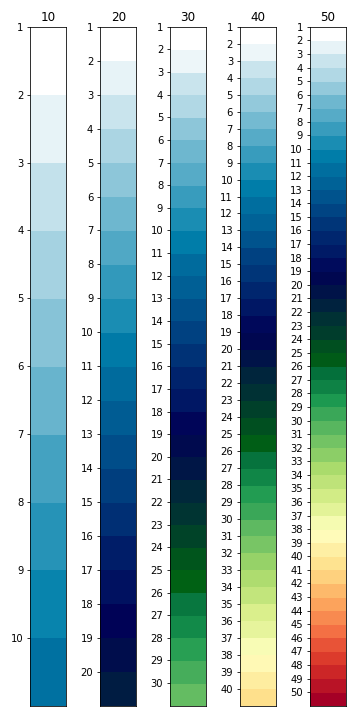
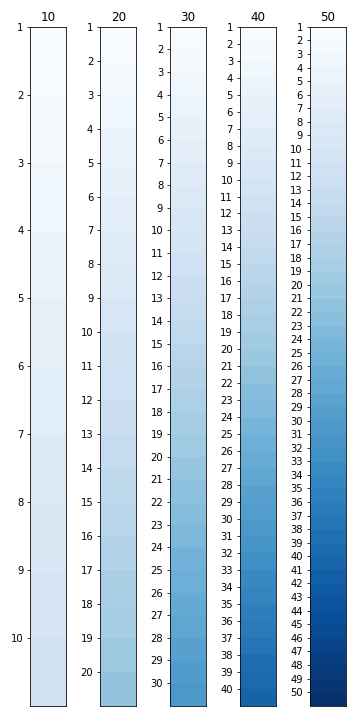
escala de cores frio-quente removida,  performance_comparison recebe apenas um array
- todos os gráficos agora seguem a escala de cores branco-azul
- o método performance_comparison recebe apenas um array e possui uma linha entre diferentes comparações

diff --git a/Desempenho_de_busca.py b/Desempenho_de_busca.py
@@ -1,7 +1,7 @@
 #!/usr/bin/env python
 # coding: utf-8
 
-# In[1]:
+# In[18]:
 
 
 import matplotlib.pyplot as plt
@@ -9,6 +9,9 @@ import matplotlib as mpl
 import numpy as np
 import pandas as pd
 import math
+
+import matplotlib.lines as lines
+
 from matplotlib import cm
 from matplotlib.colors import ListedColormap, LinearSegmentedColormap
 
@@ -72,7 +75,7 @@ def LS_performance(a_array_length): #Linear Search
     
 
 
-# In[19]:
+# In[6]:
 
 
 def g_BS_performance(base, amount, n_array, label): #Binary Search
@@ -159,7 +162,7 @@ def g_BS_performance(base, amount, n_array, label): #Binary Search
     #plt.show() 
 
 
-# In[20]:
+# In[7]:
 
 
 def g_LS_performance(base, amount, n_array, label):  #Linear Search
@@ -169,10 +172,8 @@ def g_LS_performance(base, amount, n_array, label):  #Linear Search
     title = 'linear_search_performance_X' + str(n_array) + '_' + str(base) + '_' + str(base+amount*(n_array-1)) + str(label) + '.png'
     
     #cria um novo mapa de cores
-    colors1 = cm.get_cmap('ocean', 128)
-    colors2 = cm.get_cmap('RdYlGn', 128)
-
-    colors = np.vstack((colors1(np.linspace(1, 0.08, 128)),colors2(np.linspace(1, 0, 128))))
+    colors1 = cm.get_cmap('Blues', 128)
+    colors = np.vstack((colors1(np.linspace(0, 1, 128))))
     cmp = ListedColormap(colors)
     
     #gerencia a distribuição de cores pelo grafico
@@ -240,37 +241,42 @@ def g_LS_performance(base, amount, n_array, label):  #Linear Search
     #plt.show()
 
 
-# In[21]:
+# In[62]:
 
 
-def performance_comparison(a_array_length, a_search_type, label): #Performance Comparison
+def performance_comparison(a_array_length, label): #Performance Comparison
     #Faz uma comparação entre os diferentes tipos de busca
     #A escala de cores tem como base o tamanho do array
     
-    if(len(a_array_length) != len(a_search_type)):
-        return -1
-    
+    title = 'performance_comparison_'
     
     #cria um novo mapa de cores
-    colors1 = cm.get_cmap('ocean', 128)
-    colors2 = cm.get_cmap('RdYlGn', 128)
-
-    colors = np.vstack((colors2(np.linspace(0, 1, 128)),colors1(np.linspace(0.1, 1, 128))))
+    colors1 = cm.get_cmap('Blues', 128)
+    colors = np.vstack((colors1(np.linspace(1, 0, 128))))
     cmp = ListedColormap(colors)
     
     max_size = max(a_array_length)
+    length = len(a_array_length)*2
     scale = 5
     
     if(max_size/10 > 1):
-        fig, axes = plt.subplots(1,len(a_search_type), constrained_layout=False, figsize=(len(a_array_length),max_size/scale))
+        fig, axes = plt.subplots(1,length, constrained_layout=False, figsize=(length,max_size/scale))
     else:
-        fig, axes = plt.subplots(1,len(a_search_type), constrained_layout=False, figsize=(len(a_array_length),3))
+        fig, axes = plt.subplots(1,length, constrained_layout=False, figsize=(length,3))
 
     
-    i=0 #controla o 'a_array_length' e o 'a_search_type'
+    i=0 #controla o 'a_array_length'
+    search_type = 'BS'
+    
     for current_ax in axes:
         
-        if(a_search_type[i]=='BS'): #Binary Search
+        title += search_type
+        title += str(a_array_length[i])
+        title += '_'
+        
+        if(search_type == 'BS'):
+            #Binary Search
+            
             array = BS_performance(a_array_length[i])         
             percent_x = (100*BS_max(a_array_length[i])/a_array_length[i])*0.01 #ajusta a escala de cores
             newcmp = ListedColormap(cmp(np.linspace(1, 1-percent_x, 256)))
@@ -286,36 +292,46 @@ def performance_comparison(a_array_length, a_search_type, label): #Performance C
                 current_ax.set_xticks(np.arange(0, 0, 1.0))
                 current_ax.set_yticks(np.arange(0, 0, 1.0))
             
-        elif(a_search_type[i]=='LS'): #Linear Search
+        elif(search_type=='LS'):
+            #Linear Search
+            
             array = LS_performance(a_array_length[i])
             percent_x = (100/a_array_length[i])/100 #ajusta a escala de cores
-            newcmp = ListedColormap(cmp(np.linspace(percent_x, 1, 256)))
+            newcmp = ListedColormap(cmp(np.linspace(percent_x, 1, 256))) 
             
             if(label):
                 #legenda
                 current_ax.set_yticklabels(array[::-1])
                 current_ax.set_yticks(np.arange(min(array), max(array)+1, 1.0))
                 current_ax.set_xticks(np.arange(0, 0, 1.0))
+                
             else:
                 #set_axis_off()
                 current_ax.set_xticks(np.arange(0, 0, 1.0))
                 current_ax.set_yticks(np.arange(0, 0, 1.0))
-       
+            
         current_ax.pcolormesh(np.row_stack(array),cmap=newcmp)
-        current_ax.set_title(a_search_type[i] + " " + str(a_array_length[i]))    
-        i = i+1
+        current_ax.set_title(search_type + ' ' + str(a_array_length[i]))  
+        
+        if(search_type=='BS'):
+            search_type='LS'
+        elif(search_type=='LS'):
+            search_type='BS'
+            i=i+1
     
-    title = 'performance_comparison_'
-    for i in range(0, len(a_array_length)):
-        title += a_search_type[i]
-        title += str(a_array_length[i])
-        title += '_'
-    
-    plt.tight_layout()
-    
+    #linhas
+    if(len(a_array_length)>1):
+        l_amount = 1/len(a_array_length) 
+        l_position = l_amount
+        for l in range(0, len(a_array_length)):
+            line = lines.Line2D([l_position], [0,1], transform=fig.transFigure, figure=fig, color='#000000')
+            fig.lines.extend([line])
+            l_position = l_position + l_amount
     
     title += str(label)
     title += '.png'
+    
+    plt.tight_layout()
     plt.savefig((title), format='png')
     #plt.show()   
 
@@ -406,27 +422,4 @@ def g_mean_performance(base, amount, g_length, search_type): #Average
     
     plt.savefig((title), format='png')
     #plt.show()
-
-
-# In[22]:
-
-
-g_BS_performance(10, 1, 1, True)
-g_BS_performance(20, 1, 1, True)
-g_BS_performance(10, 10, 5, True)
-g_BS_performance(10, 10, 5, False)
-
-g_LS_performance(10, 1, 1, True)
-g_LS_performance(20, 1, 1, True)
-g_LS_performance(10, 10, 5, True)
-g_LS_performance(10, 10, 5, False)
-
-performance_comparison([40,40,20,20,10,10], ['BS','LS','BS','LS','BS','LS'], True)
-performance_comparison([40,40,20,20,10,10], ['BS','LS','BS','LS','BS','LS'], False)
-
-g_sum_performance(10, 10, 50,'BS')
-g_sum_performance(10, 10, 50,'LS')
-
-g_mean_performance(10, 10, 100,'BS')
-g_mean_performance(10, 10, 100,'LS')
 
